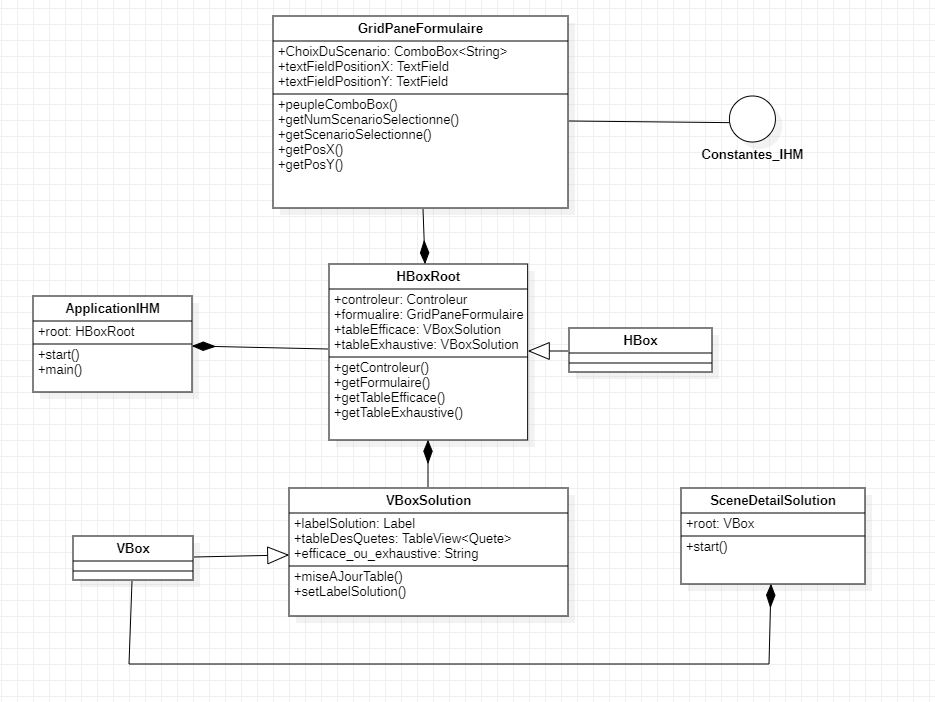
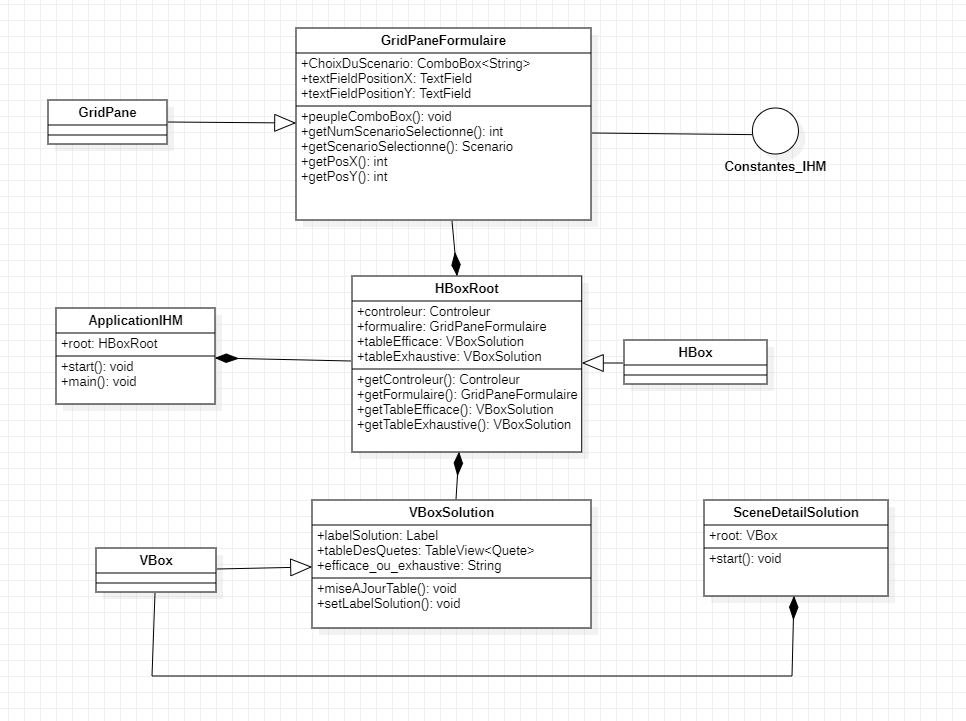
8eme avancement

diff --git a/README.md b/README.md
@@ -113,11 +113,15 @@ des commits concernant l'algortihme de notre RPG.*
 ## 3 - 🔧 Conception Generale 
 *Note : Les différents diagrammes ont été réalisé avec la version gratuite du logiciel StarUML*
 ### *Diagramme des classes de haut niveau*
-
+![UML_projet.png](UMLs%2FUML_projet.png)
 ### *Diagramme des classes par package*
 
 #### *package modele :*
 ![UML_modele.png](UMLs%2FUML_modele.png)
 
-### *package vue :*
+#### *package vue :*
 ![UML_vue.png](UMLs%2FUML_vue.png)
+
+#### *package controleur :*
+![UML_controleur.png](UMLs%2FUML_controleur.png)
+
